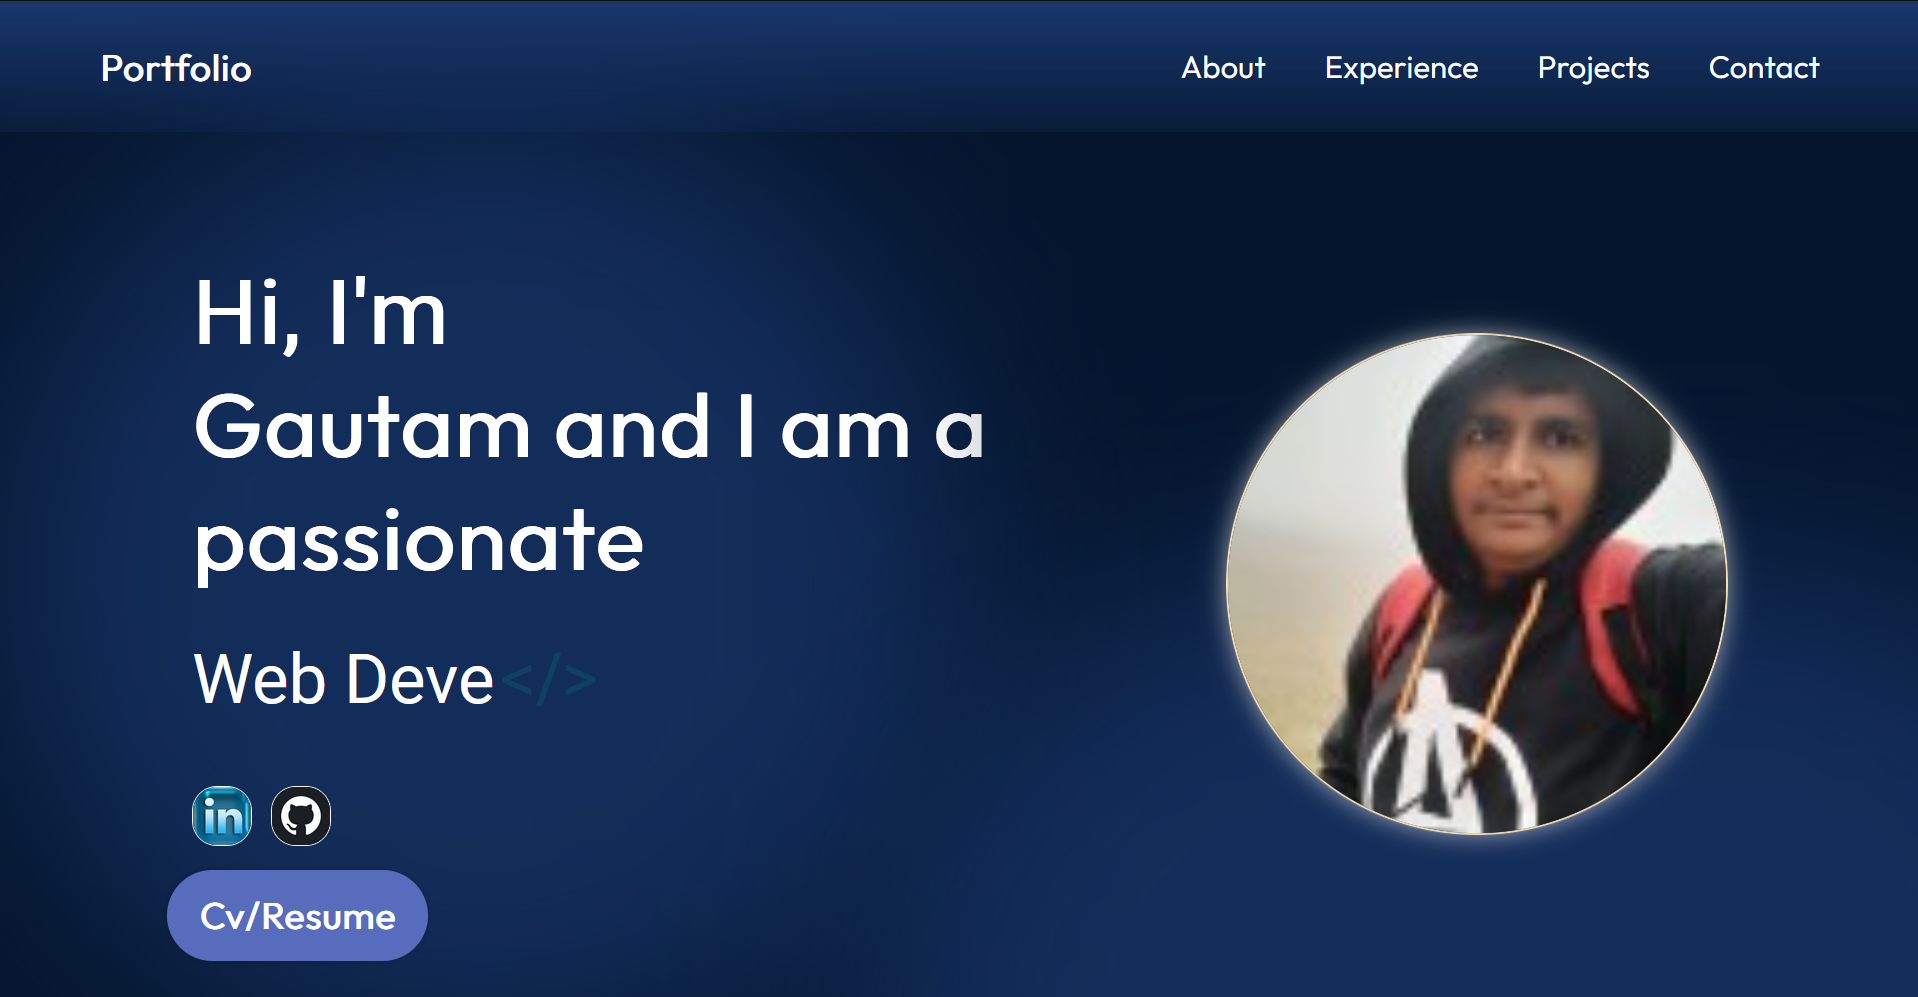
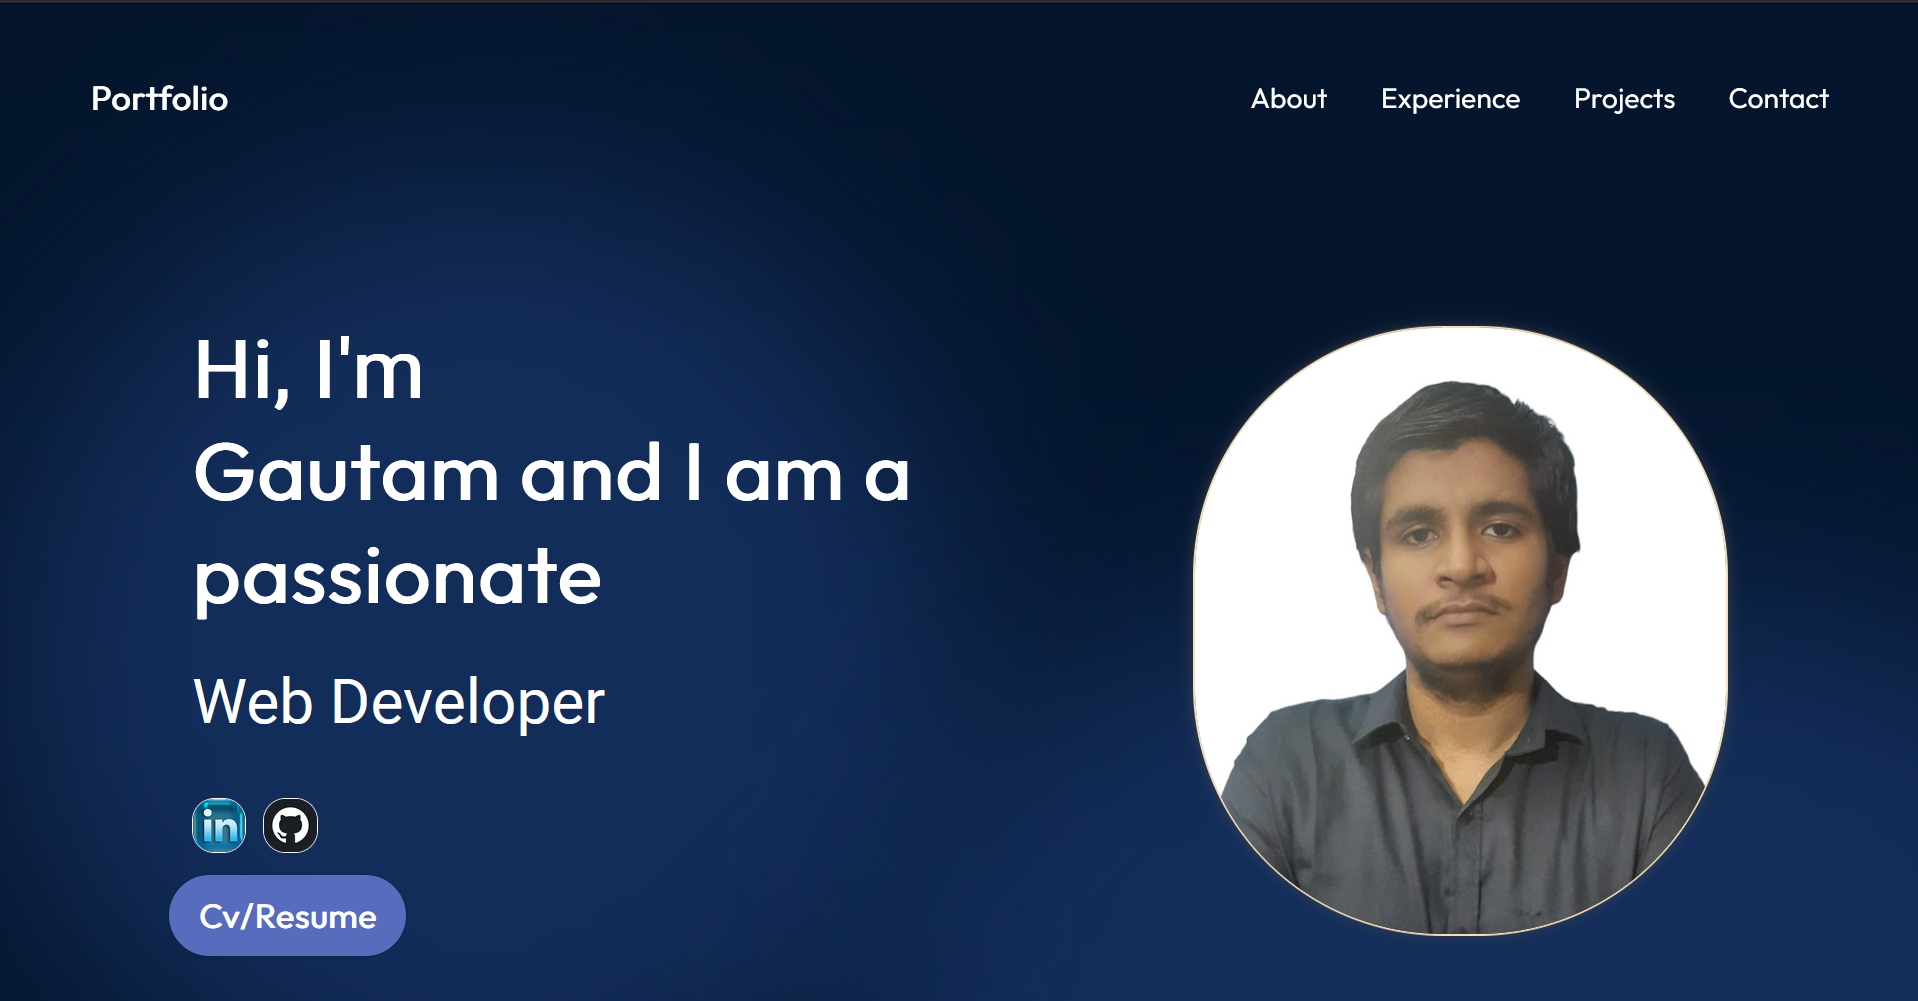
Changing some image url in my portfolio

diff --git a/Portfolio/src/components/ContactForm/ContactForm.module.css b/Portfolio/src/components/ContactForm/ContactForm.module.css
@@ -1,6 +1,6 @@
 @import "../../vars.css";
 
-.container{
+.container {
   color: wheat;
   display: flex;
   font-size: 5rem;
@@ -11,7 +11,7 @@
   height: 38rem;
   margin-top: 200px;
   border-radius: 600px 600px 0 0;
-  transform: translateY(100%);
+  /* transform: translateY(100%); */
   transition: all 1.2s ease;
 }
 .rotate {
@@ -21,77 +21,78 @@
   transform: rotate(360deg);
   color: darkcyan;
 }
-.contactForm{
-    display: flex;
-    flex-direction: column;
-    justify-content: center;
-    align-items: center;
-    margin: 25px 0px;
+.contactForm {
+  display: flex;
+  flex-direction: column;
+  justify-content: center;
+  align-items: center;
+  margin: 25px 0px;
 }
-.input{
-    margin: 20px 0px;
-    width: 50vw;
-    padding: 5px 0px;
-    border-radius: 15px;
-    border: 2px solid white;
-    color: black;
-    /* background: transparent; */
-    box-shadow: 0 0 5px white;
-    font-size: 1.02rem;
-    outline: none;
+.input {
+  margin: 20px 0px;
+  width: 50vw;
+  padding: 10px; /* Added padding */
+  border-radius: 15px;
+  border: 2px solid white;
+  color: black;
+  /* background: transparent; */
+  box-shadow: 0 0 5px white;
+  font-size: 1.02rem;
+  outline: none;
 }
-.textarea{
-    width: 50vw;
-    margin: 20px 0px;
-    height: 15rem;
-    border-radius: 15px;
-    font-size: 1.02rem;
+.textarea {
+  width: 50vw;
+  margin: 20px 0px;
+  height: 15rem;
+  padding: 10px; /* Added padding */
+  border-radius: 15px;
+  font-size: 1.02rem;
 }
-.btn{
+.btn {
   width: 120px;
   font-size: 2rem;
   border: 2px solid black;
 }
-.btn:hover{
-    box-shadow: 0 0 6px white;
+.btn:hover {
+  box-shadow: 0 0 6px white;
 }
 
-@media only screen and (max-width:1360px){
-    .container{
-      font-size:4rem;
-    }
-}
-@media only screen and (max-width:1050px){
-    .container{
-      font-size:3.5rem;
-    }
-}
-@media only screen and (max-width:850px){
-    .container{
-      font-size:3.0rem;
-    }
-    .btn{
-      width: 100px;
-      font-size: 1.7rem;
-    }
-    .input{
-      width: 70vw;
-    }
-    .textarea{
-      width: 70vw;
+@media only screen and (max-width:1360px) {
+  .container {
+    font-size: 4rem;
   }
 }
-@media only screen and (max-width:550px){
-    .container{
-      font-size:2.7rem;
-    }
-    .btn{
-      width: 85px;
-      font-size: 1.5rem;
-    }
+@media only screen and (max-width:1050px) {
+  .container {
+    font-size: 3.5rem;
+  }
 }
-@media only screen and (max-width:425px){
-    .container{
-      font-size:2.4rem;
-    }
+@media only screen and (max-width:850px) {
+  .container {
+    font-size: 3.0rem;
+  }
+  .btn {
+    width: 100px;
+    font-size: 1.7rem;
+  }
+  .input {
+    width: 70vw;
+  }
+  .textarea {
+    width: 70vw;
+  }
+}
+@media only screen and (max-width:550px) {
+  .container {
+    font-size: 2.7rem;
+  }
+  .btn {
+    width: 85px;
+    font-size: 1.5rem;
+  }
+}
+@media only screen and (max-width:425px) {
+  .container {
+    font-size: 2.4rem;
+  }
 }

diff --git a/Portfolio/src/components/Hero/Hero.jsx b/Portfolio/src/components/Hero/Hero.jsx
@@ -19,12 +19,12 @@ export const Hero = () => {
         </div>
         <div className={styles.profilebox}><a href="https://www.linkedin.com/in/gautam-gautam-47264a273/" target="_blank"><img src={getImageUrl("hero/linkedin.png") } alt="linked in image" className={styles.profile}/></a>
         <a href="https://github.com/opcodeer" target="_blank"><img src={getImageUrl("hero/github.png")} alt="" className={styles.profile}/></a></div>
-        <a href={getImageUrl("hero/Gautam-cv2.pdf")} className={styles.resume} target="_blank">
+        <a href={"https://drive.google.com/file/d/1RLHeFGzqxptCVmpo0TY4o4lE9k7rftFS/view"} className={styles.resume} target="_blank">
           Cv/Resume
         </a>
       </div>
       <img
-        src={getImageUrl("hero/My profile image.jpeg")}
+        src={getImageUrl("hero/My image.jpg")}
         alt="Hero image of me"
         className={styles.heroImg}
       />

diff --git a/Portfolio/src/components/ContactForm/ContactForm.jsx b/Portfolio/src/components/ContactForm/ContactForm.jsx
@@ -16,6 +16,8 @@ export const ContactForm = () => {
 
   const containerRef = useRef(null);
 
+  // Commented out the scrolling behavior
+  /*
   useEffect(() => {
     const handleScroll = () => {
       const scrollTop = window.scrollY;
@@ -41,6 +43,7 @@ export const ContactForm = () => {
       window.removeEventListener('scroll', handleScroll);
     };
   }, []);
+  */
 
   const handleSubmit = async (event) => {
     event.preventDefault(); // Prevent default form submission
